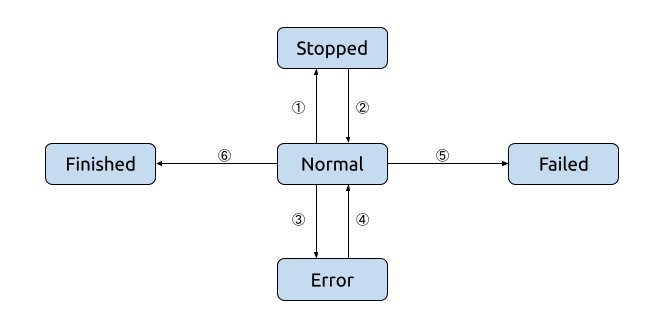
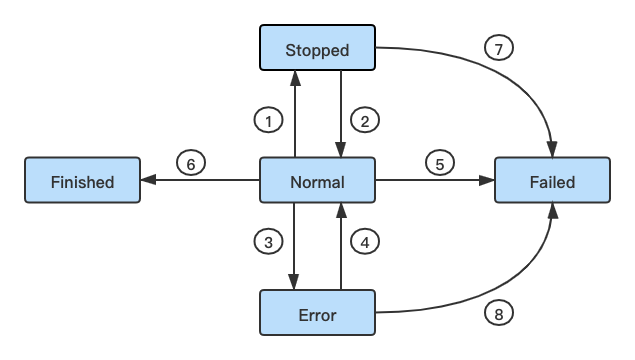
ticdc: add description about gc-ttl

diff --git a/ticdc/troubleshoot-ticdc.md b/ticdc/troubleshoot-ticdc.md
@@ -136,13 +136,23 @@ cdc cli changefeed update -c <changefeed-id> --sort-engine="unified" --sort-dir=
 
 ## TiCDC 的 `gc-ttl` 是什么？
 
-从 TiDB v4.0.0-rc.1 版本起，PD 支持外部服务设置服务级别 GC safepoint。任何一个服务可以注册更新自己服务的 GC safepoint。PD 会保证任何晚于该 GC safepoint 的 KV 数据不会在 TiKV 中被 GC 清理掉。在 TiCDC 中启用了这一功能，用来保证 TiCDC 在不可用、或同步任务中断情况下，可以在 TiKV 内保留 TiCDC 需要消费的数据不被 GC 清理掉。
+从 TiDB v4.0.0-rc.1 版本起，PD 支持外部服务设置服务级别 GC safepoint。任何一个服务可以注册更新自己服务的 GC safepoint。PD 会保证任何晚于该 GC safepoint 的 KV 数据不会在 TiKV 中被 GC 清理掉。
 
-启动 TiCDC server 时可以通过 `gc-ttl` 指定 GC safepoint 的 TTL，这个值的含义是当 TiCDC 服务全部挂掉后，由 TiCDC 在 PD 所设置的 GC safepoint 保存的最长时间，该值默认为 86400 秒。
+在 TiCDC 中启用了这一功能，用来保证 TiCDC 在不可用、或同步任务中断情况下，可以在 TiKV 内保留 TiCDC 需要消费的数据不被 GC 清理掉。
+
+启动 TiCDC server 时可以通过 `gc-ttl` 指定 GC safepoint 的 TTL，也可以[通过 TiUP 修改](/ticdc/manage-ticdc#使用-tiup-修改-ticdc-配置) TiCDC 的 `gc-ttl`，默认值为 24 小时。在 TiCDC 中这个值有如下两重含义：
+
+- 当 TiCDC 服务全部挂掉后，由 TiCDC 在 PD 所设置的 GC safepoint 保存的最长时间。
+- TiCDC 中某个同步任务中断或者被手动停止时所能停滞的最长时间，若同步任务停滞时间超过 `gc-ttl` 所设置的值，那么该同步任务就会进入 `failed` 状态，无法被恢复，并且不会继续影响 GC safepoint 的推进。
+
+以上第二种行为是在 TiCDC v4.0.13 版本及之后版本中新增的。目的是为了防止 TiCDC 中某个同步任务停滞时间过长，导致上游 TiKV 集群的 GC safepoint 长时间不推进，保留的旧数据版本过多，进而影响上游集群性能。
+
+> ** 注意 **
+> 在某些应用场景中，比如使用 Dumpling/BR 全量同步后使用 TiCDC 接增量同步时，默认的 `gc-ttl ` 为 24 小时可能无法满足需求。此时应该根据实际情况，在启动 TiCDC server 时制指定 `gc-ttl` 的值。
 
 ## TiCDC GC safepoint 的完整行为是什么
 
-TiCDC 服务启动后，如果有任务开始同步，TiCDC owner 会根据所有同步任务最小的 checkpoint-ts 更新到 PD service GC safepoint，service GC safepoint 可以保证该时间点及之后的数据不被 GC 清理掉。如果 TiCDC 同步任务中断，该任务的 checkpoint-ts 不会再改变，PD 对应的 service GC safepoint 也不会再更新。TiCDC 为 service GC safepoint 设置的存活有效期为 24 小时，即 TiCDC 服务中断 24 小时内恢复能保证数据不因 GC 而丢失。
+TiCDC 服务启动后，如果有任务开始同步，TiCDC owner 会根据所有同步任务最小的 checkpoint-ts 更新到 PD service GC safepoint，service GC safepoint 可以保证该时间点及之后的数据不被 GC 清理掉。如果 TiCDC 同步任务中断、或者被用户主动停止，则该任务的 checkpoint-ts 不会再改变，PD 对应的 service GC safepoint 也不会再更新。如果该同步任务停滞的时间超过了 `gc-ttl` 指定的时常，那么该同步任务就会进入 `failed` 状态，并且无法被恢复，PD 对应的 service GC safepoint 就会继续推进。TiCDC 为 service GC safepoint 设置的存活有效期为 24 小时，即 TiCDC 服务中断 24 小时内恢复能保证数据不因 GC 而丢失。
 
 ## 如何处理 TiCDC 创建同步任务或同步到 MySQL 时遇到 `Error 1298: Unknown or incorrect time zone: 'UTC'` 错误？
 

diff --git a/ticdc/manage-ticdc.md b/ticdc/manage-ticdc.md
@@ -115,10 +115,12 @@ tiup cluster edit-config <cluster-name>
 
 - ① 执行 `changefeed pause` 命令。
 - ② 执行 `changefeed resume` 恢复同步任务。
-- ③ `changefeed` 运行过程中发生可恢复的错误。
+- ③ `changefeed` 运行过程中发生可恢复的错误，自动进行恢复。
 - ④ 执行 `changefeed resume` 恢复同步任务。
 - ⑤ `changefeed` 运行过程中发生不可恢复的错误。
-- ⑥ 同步任务已经进行到预设的 TargetTs，同步自动停止。
+- ⑥ `changefeed` 已经进行到预设的 TargetTs，同步自动停止。
+- ⑦ `changefeed` 停滞时间超过 `gc-ttl` 所指定的时长，不可被恢复。
+- ⑧ `changefeed` 尝试自动恢复过程中发生不可恢复的错误。
 
 #### 创建同步任务
 

diff --git a/ticdc/deploy-ticdc.md b/ticdc/deploy-ticdc.md
@@ -50,7 +50,7 @@ cdc server --pd=http://10.0.10.25:2379 --log-file=ticdc_3.log --addr=0.0.0.0:830
 
 对于 `cdc server` 命令中可用选项解释如下：
 
-- `gc-ttl`：TiCDC 在 PD 设置的服务级别 GC safepoint 的 TTL (Time To Live) 时长，单位为秒，默认值为 `86400`，即 24 小时。
+- `gc-ttl`：TiCDC 在 PD 设置的服务级别 GC safepoint 的 TTL (Time To Live) 时长，和 TiCDC 同步任务所能够停滞的时长。单位为秒，默认值为 `86400`，即 24 小时。
 - `pd`：PD client 的 URL。
 - `addr`：TiCDC 的监听地址，提供服务的 HTTP API 查询地址和 Prometheus 查询地址。
 - `advertise-addr`：TiCDC 对外访问地址。
